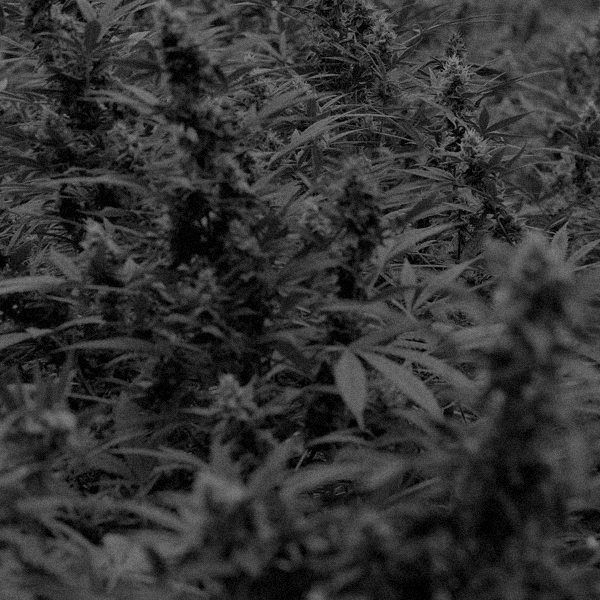
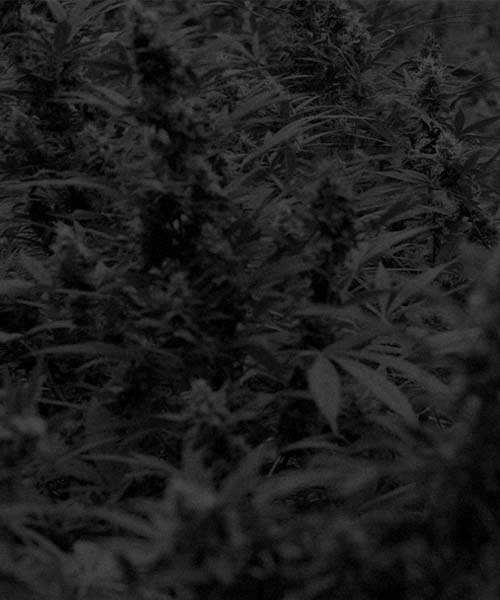
added compressed photos

diff --git a/public/styles/style.css b/public/styles/style.css
@@ -4,19 +4,22 @@
 * {
   box-sizing: border-box; }
 
+/*Body, HTML*/
 body, html {
   height: 100%;
   color: #fff; }
 
 video::-webkit-media-controls {
-    display:none !important;
+  display:none !important;
 }
 
+/*Links*/
 a,
 a:visited {
   color: inherit;
   text-decoration: none; }
 
+/*Scrollbar*/
 body::-webkit-scrollbar-track {
   -webkit-box-shadow: inset 0 0 6px rgba(0, 0, 0, 0.1);
   background-color: rgba(0, 0, 0, 0.1); }
@@ -28,23 +31,25 @@ body::-webkit-scrollbar {
 body::-webkit-scrollbar-thumb {
   background-color: rgba(255, 255, 255, 0.4); }
 
+/*Parallax*/
 .parallax.active {
   height: auto;
   width: 100%;
-  background-image: url("../images/LA1.jpg");
+  background-image: url("../images/parallax_bg.jpg");
   background-position: 50% 50%;
   background-repeat: no-repeat;
   background-attachment: fixed;
   background-size: cover; }
-  .parallax.active::after {
-    clear: both;
-    content: "";
-    display: table; }
-  .parallax.active .overlay {
-    background: url("../images/overlay.png"); }
-  .parallax.active .home, .parallax.active .product, .parallax.active .faq, .parallax.active .find-us, .parallax.active .contact {
-    margin-bottom: 140px; }
+.parallax.active::after {
+  clear: both;
+  content: "";
+  display: table; }
+.parallax.active .overlay {
+  background: url("../images/overlay.png"); }
+.parallax.active .home, .parallax.active .product, .parallax.active .faq, .parallax.active .find-us, .parallax.active .contact {
+  margin-bottom: 140px; }
 
+/*Header*/
 header {
   font-family: "Comfortaa", 'Avenir', sans-serif;
   font-size: 17px;
@@ -93,6 +98,9 @@ header {
     header .right-header img {
       width: 150px; 
       margin-left: 160px}
+
+
+/*Responsive*/
   
   @media (max-width: 1000px) {
     header {
@@ -111,13 +119,15 @@ header {
         top: -64px; }
         header ul.left-header li {
           margin-top: 10px;
-          margin-right: 1em; } }
+          margin-right: 1em; } 
+  }
   
   @media (max-width: 870px) {
     header .right-header img {
       margin-left: -30px;
     }
   }
+
   @media (max-width: 600px) {
     header .right-header img {
       display: none;
@@ -130,21 +140,26 @@ header {
     }
 
   }
+
   @media (max-width: 570px){
     header ul.left-header li:first-child {
       margin-left: 10%;
     }
   }
+
   @media (max-width: 514px){
     header ul.left-header li{
       font-size: 14px;
     }
   }
+
   @media (max-width: 480px){
     header ul.left-header li:last-child{
       display: none;
     }
   }
+
+/*Header Fixed*/
 
 header.fixed {
   position: fixed;
@@ -156,6 +171,8 @@ header.fixed {
     top: -65px; }
   header.fixed .right-header {
     top: -58px; }
+
+/*Header Fixed Responsive*/
   
   @media (max-width: 1000px) {
     header .right-header img {
@@ -184,12 +201,15 @@ header.fixed {
     }
   }
 
+
+
 .home, .product, .faq, .find-us, .contact, .more-info, .faq-mobile {
   height: 100%; }
-  .home::after, .product::after, .faq::after, .find-us::after, .contact::after, .more-info::after, .faq-mobile::after {
-    clear: both;
-    content: "";
-    display: table; }
+
+.home::after, .product::after, .faq::after, .find-us::after, .contact::after, .more-info::after, .faq-mobile::after {
+  clear: both;
+  content: "";
+  display: table; }
 
 .home {
   overflow: hidden; }
@@ -201,15 +221,18 @@ header.fixed {
     z-index: -100;
     background: url(images/juliette.jpg) no-repeat; 
     background-size: cover; }
+ 
  @media screen and (max-width: 1270px){
   .home video#bgvid {
     min-width: 1270px;
   }
  }
+
  @media screen and (max-width: 500px){ 
   .home{
-    background: url(images/juliette.jpg) #000 no-repeat center center fixed;
+    background: url(images/home_bg.jpg) #000 no-repeat center center fixed;
   }
+
   .home video#bgvid{
     display: none;
   }
@@ -547,7 +570,7 @@ header.fixed {
 }
 .contact {
   padding: 50px;
-  background: url("../images/main.jpg") no-repeat;
+  background: url("../images/contact_bg.jpg") no-repeat;
   background-size: cover;
   /* ie */ }
   .contact ::-webkit-input-placeholder {
@@ -651,7 +674,7 @@ header.fixed {
 
 .more-info {
   padding: 50px;
-  background: url(../images/LA3.jpg) no-repeat;
+  background: url(../images/more-info_bg.jpg) no-repeat;
   background-size: cover; }
   .more-info span {
     color: #8FD74B;

diff --git a/public/verify_style.css b/public/verify_style.css
@@ -11,8 +11,6 @@ body {
 
 }
 
-
-
 p{
 	padding-top: 180px;
 	margin-bottom: -15px;
@@ -23,10 +21,10 @@ p{
 	font-size: 40px;
 	text-align: center;
 }
+
 .buttons{
 	margin-left: 0%;
 }
-
 
 h1 {
   color: #55acee;
@@ -92,19 +90,19 @@ h1 {
 }
 
 #background{
-  background: #000000 url(images/LA1.jpg) no-repeat bottom left;
-    min-height: 100%;
-    min-width: 1500px;
-    width: 100%;
-    height: auto;
-    position: fixed;
-    top: 0;
-    left: 0;
-    z-index: -10000;
+  background: #000000 url(images/parallax_bg.jpg) no-repeat bottom left;
+  min-height: 100%;
+  min-width: 1500px;
+  width: 100%;
+  height: auto;
+  position: fixed;
+  top: 0;
+  left: 0;
+  z-index: -10000;
 }
 
 @media screen and (max-width: 1500){
   #background{
-    left: 50%;
-    margin-left: -750px;
+  left: 50%;
+  margin-left: -750px;
 }
